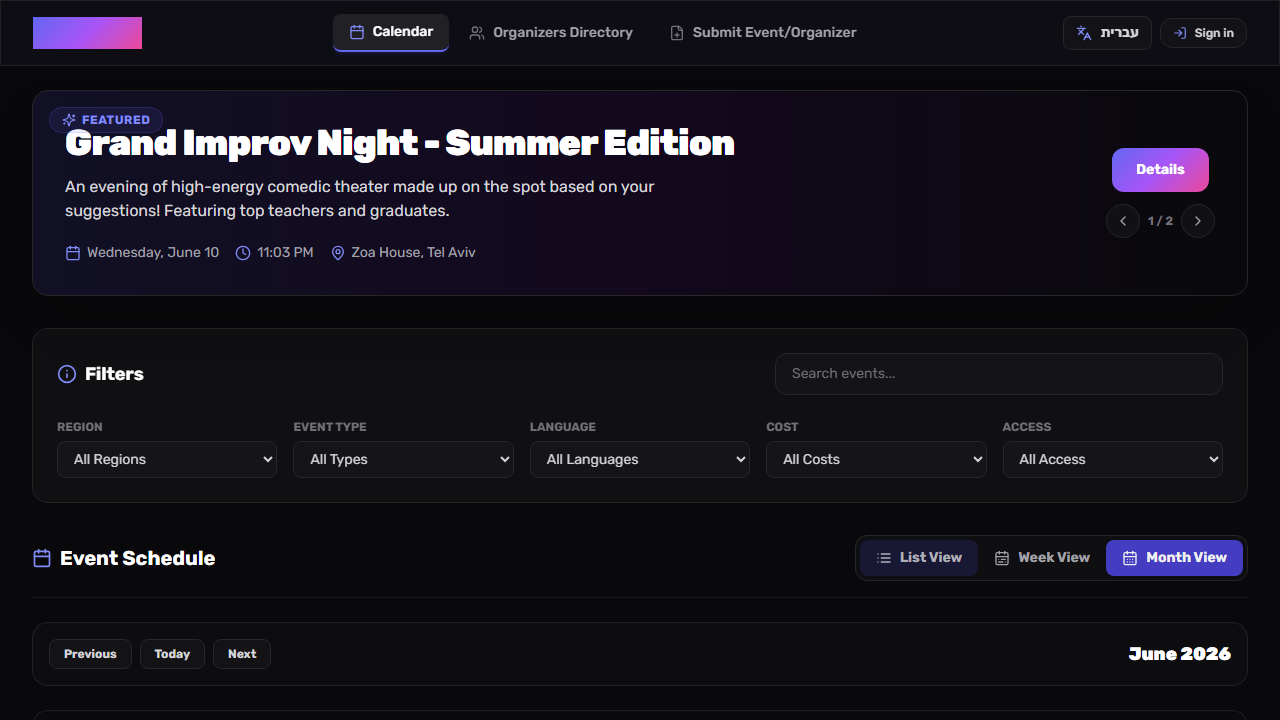
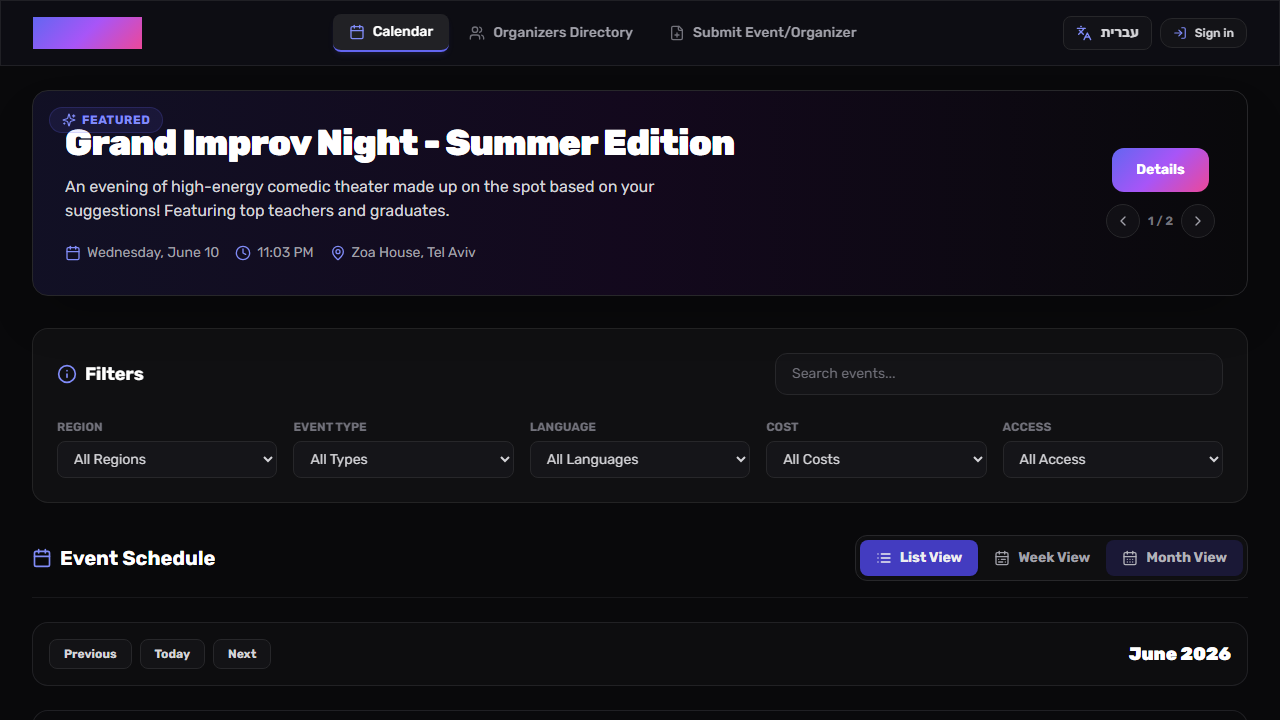
fix(impcal-13): finalize calendar and E2E fixes

Changed region(s): [[0.8438, 0.7333, 0.9688, 0.825], [0.6562, 0.7333, 0.7812, 0.825]]

diff --git a/src/lib/db.ts b/src/lib/db.ts
@@ -192,8 +192,7 @@ function getMockEvents(): FirestoreEvent[] {
       name: "Carmel Improv Festival 2026",
       organizerId: "org-haifa-theater",
       organizerName: "Haifa Improv Theater",
-      description:
-        "Three days of shows, jams, and international guest workshops on the bay. Re-rendered static index test.",
+      description: "Three days of shows, jams, and international guest workshops on the bay.",
       time: baseTime + 8 * 24 * 60 * 60 * 1000,
       endTime: baseTime + 11 * 24 * 60 * 60 * 1000,
       recurrence: "one-time",

diff --git a/e2e/calendar.spec.ts b/e2e/calendar.spec.ts
@@ -15,7 +15,7 @@ test.describe("Calendar Views E2E Tests", () => {
     // Ensure page is loaded
     await expect(page.locator("text=ImprovIL")).toBeVisible();
     // Wait for the loading state to finish
-    await expect(page.locator("text=Loading...")).not.toBeVisible();
+    await expect(page.locator("text=Loading...").first()).not.toBeVisible();
   });
 
   test("should render view switcher and toggle views", async ({ page }) => {

diff --git a/src/app/[locale]/page.tsx b/src/app/[locale]/page.tsx
@@ -798,6 +798,7 @@ export default function Home() {
                             key={event.id}
                             onClick={(e) => {
                               e.stopPropagation();
+                              setSelectedCalendarDay(day);
                               setSelectedEvent(event);
                             }}
                             className="text-left rtl:text-right text-[10px] font-semibold text-indigo-400 bg-zinc-900 border border-zinc-800 hover:bg-zinc-800 hover:text-white px-1.5 py-0.5 rounded truncate w-full transition-all"